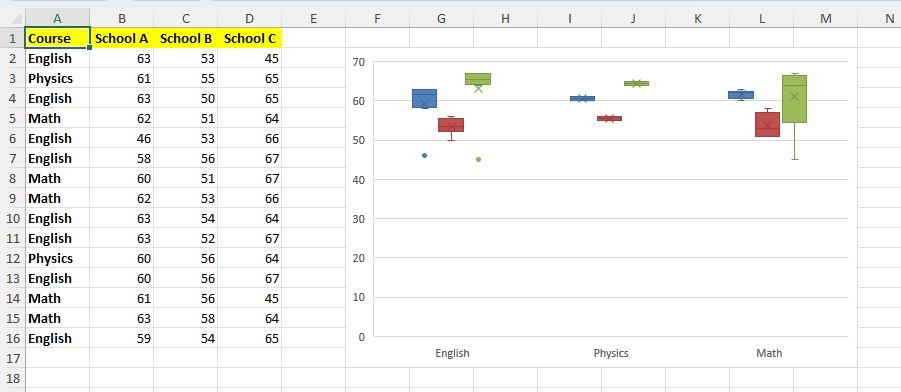
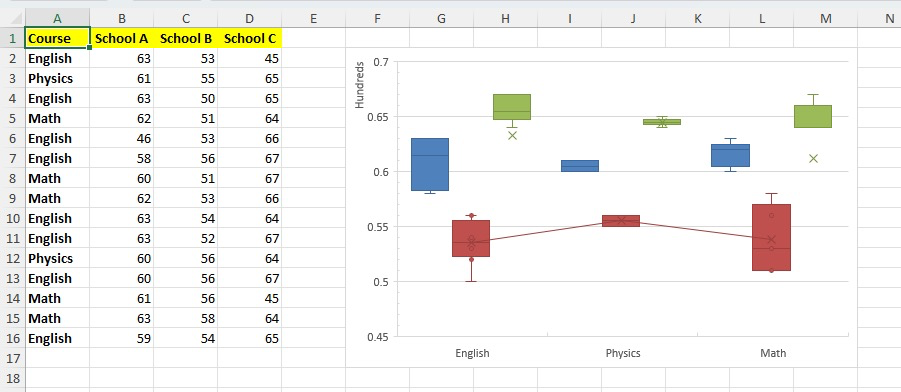
Upgrade the Box and Whisker chart sample

diff --git a/SlapKit.Excel-Samples/Charts/BoxAndWhiskerChart/Program.cs b/SlapKit.Excel-Samples/Charts/BoxAndWhiskerChart/Program.cs
@@ -1,5 +1,7 @@
 using Helpers;
 using SlapKit.Excel.Excel;
+using SlapKit.Excel.Excel.Charts.ExtendedChartTypeFeatures;
+using SlapKit.Excel.Excel.Charts.ExtendedSeriesFeatures;
 
 var workbook = new XLWorkbook();
 var worksheet = workbook.AddWorksheet();
@@ -9,21 +11,56 @@ DataGenerator.GenerateSchoolCoursesData(worksheet);
 var chart = worksheet.Charts.AddBoxAndWhiskerChart();
 chart.MoveTo(worksheet.Cell("F2"), worksheet.Cell("N18"));
 
+chart.CategoryAxis.GapWidthRatio = 0.24;
+chart.CategoryAxis.MajorTickMark = XLAxisTickMark.Inside;
+
+chart.ValueAxis.MinorTickMark = XLAxisTickMark.Inside;
+chart.ValueAxis.MajorTickMark = XLAxisTickMark.Outside;
+chart.ValueAxis.Scaling.MinAxisValue = 45;
+chart.ValueAxis.SetDisplayUnit(x =>
+{
+    x.Type = XLAxisDisplayUnitType.Hundreds;
+    x.SetLabel();
+});
+
 var categories = worksheet.Range("A2:A16");
 
 chart.Series.Add()
     .SetName(worksheet.Range("B1"))
     .SetCategories(categories)
-    .SetValues(worksheet.Range("B2:B16"));
+    .SetValues(worksheet.Range("B2:B16"))
+    .SetElementVisibilities(x =>
+    {
+        x.ShowMeanLine = false;
+        x.ShowMeanMarkers = false;
+        x.ShowInnerPoints = false;
+        x.ShowOutlierPoints = false;
+    });
 
 chart.Series.Add()
     .SetName(worksheet.Range("C1"))
     .SetCategories(categories)
-    .SetValues(worksheet.Range("C2:C16"));
+    .SetValues(worksheet.Range("C2:C16"))
+    .SetQuartileMethod(XLSeriesQuartileMethod.Exclusive)
+    .SetElementVisibilities(x =>
+    {
+        x.ShowMeanLine = true;
+        x.ShowMeanMarkers = true;
+        x.ShowInnerPoints = true;
+        x.ShowOutlierPoints = true;
+    });
 
 chart.Series.Add()
     .SetName(worksheet.Range("D1"))
     .SetCategories(categories)
-    .SetValues(worksheet.Range("D2:D16"));
+    .SetValues(worksheet.Range("D2:D16"))
+    .SetQuartileMethod(XLSeriesQuartileMethod.Inclusive)
+    .SetElementVisibilities(x =>
+    {
+        x.ShowMeanLine = false;
+        x.ShowMeanMarkers = true;
+        x.ShowInnerPoints = false;
+        x.ShowOutlierPoints = false;
+    });
 
 workbook.SaveAs("workbook.xlsx");

diff --git a/SlapKit.Excel-Samples/Charts/BoxAndWhiskerChart/README.md b/SlapKit.Excel-Samples/Charts/BoxAndWhiskerChart/README.md
@@ -3,6 +3,13 @@
 This sample demonstrates how to:
 - create Box and Whisker chart with multiple series
 - position the chart using 2 cell anchor ("Move and size with cells" property in Excel)
+- configure series' Gap Width
+- configure category axis' major tick marks
+- configure value axis' major and minor tick marks
+- configure value axis' minimum axis value ("Bounds > Minimum" in Excel)
+- configure value axis' "Display units" 
+- configure series' Quartile calculation method
+- configure series' "Show mean line", "Show mean markers", "Show inner points", "Show outlier points" options
 
 ## Output
 
